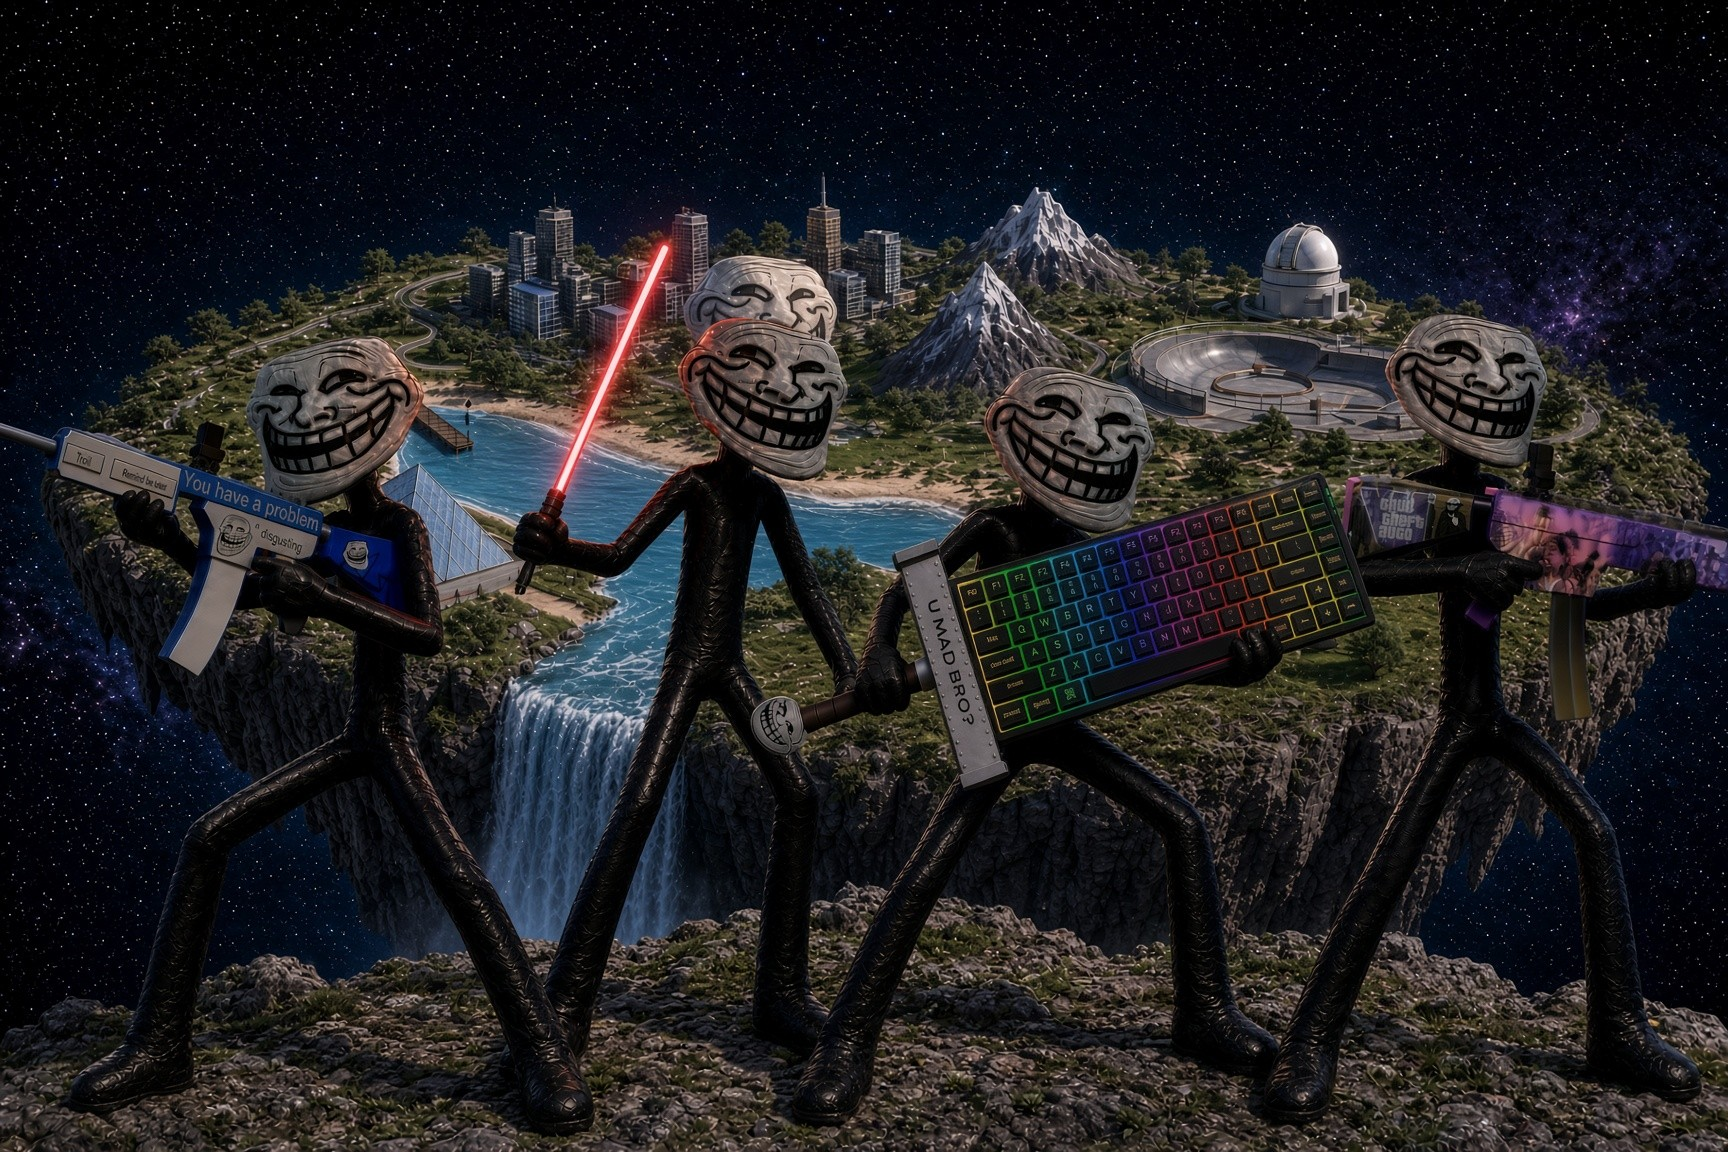
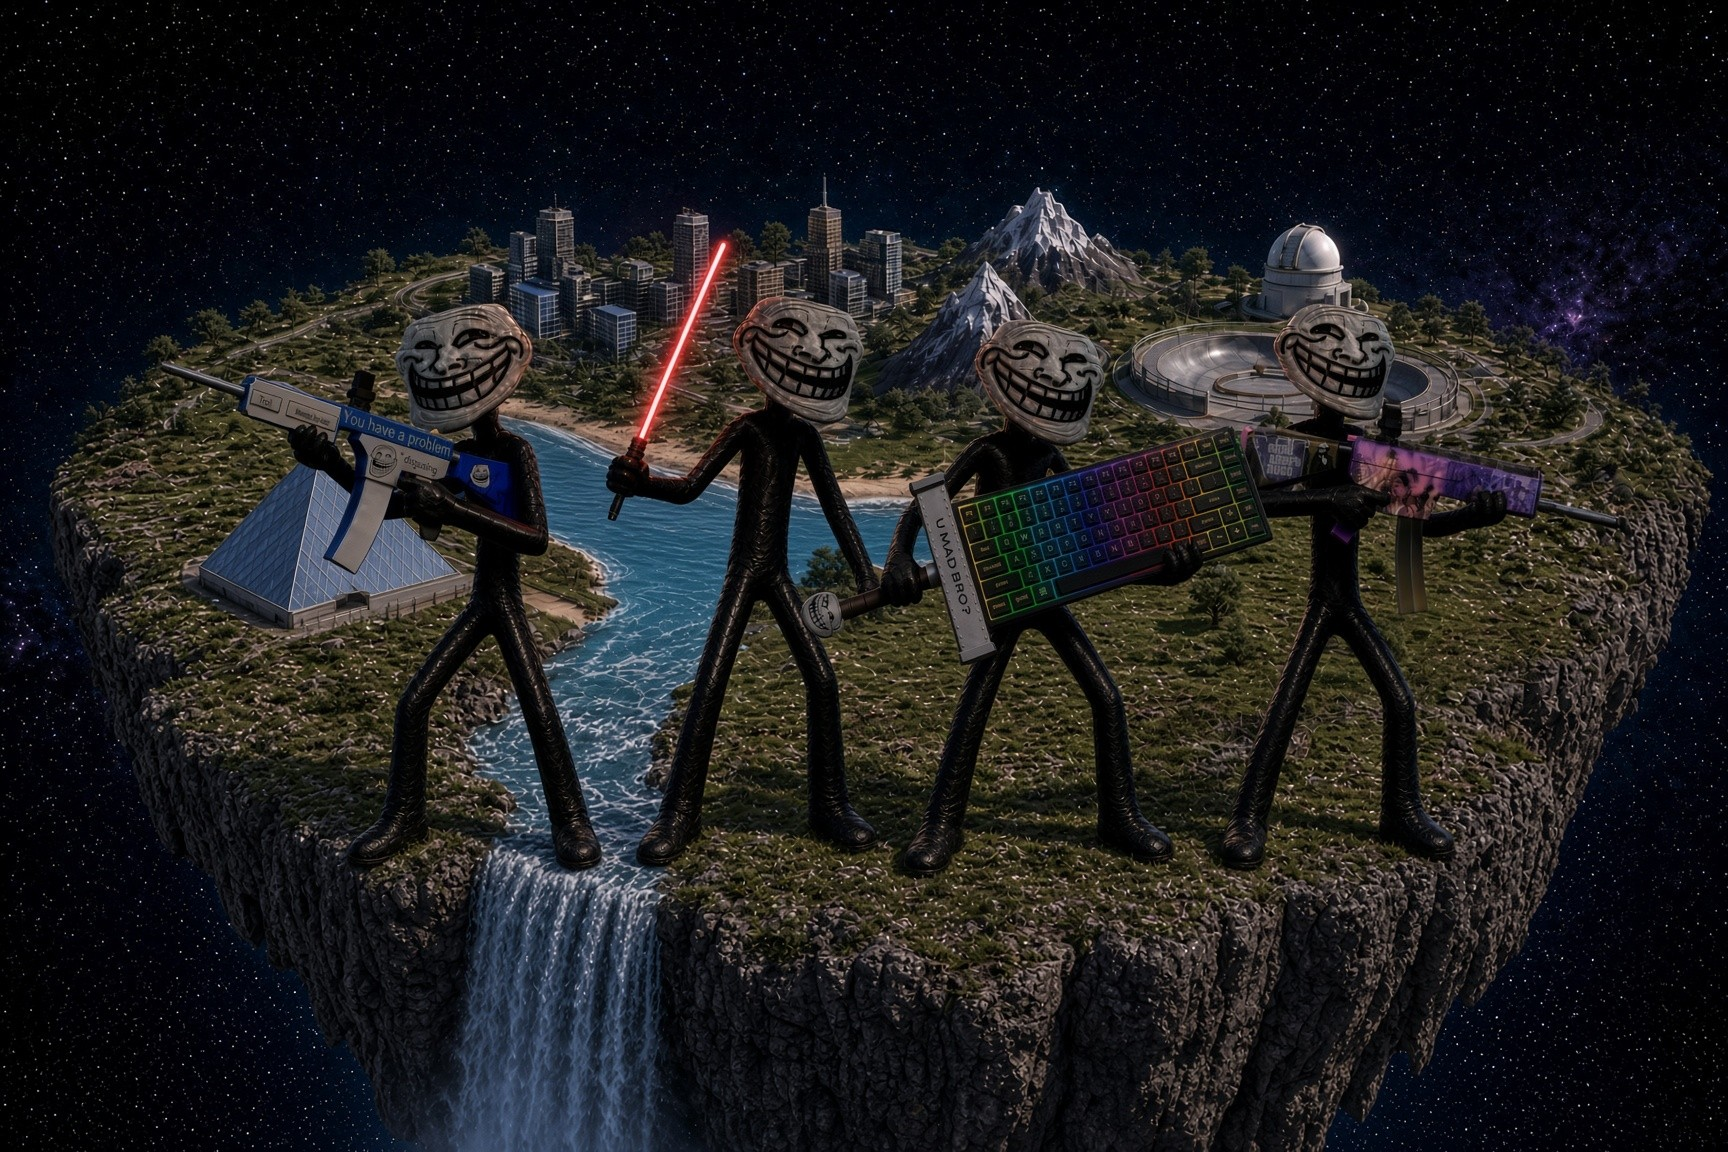
Games hub: new Troll Forces key art (trolls on the island)

diff --git a/games.html b/games.html
@@ -78,7 +78,7 @@
         <article class="hub-card" data-accent="green" data-category="shooter" data-title="troll forces troll ops troll royale battle royale shooter fps" data-preview='{"summary":"Online troll FPS — team deathmatch, Search & Destroy, Infection, zombies and Troll Royale on a floating island. Skins, scorestreaks, the Trollsaber and the Keyboard Warrior.","controls":["WASD to move, mouse to aim","Left click to fire, R to reload","Shift to sprint, Space to jump","G lethal, F tactical, X swap or pick up"],"playersOnline":"live"}'>
           <div class="hub-card-art">
             <span class="hub-card-tag">Shooter</span>
-            <img src="assets/games/troll-ops/ui/troll-forces-key-art.jpg" alt="Troll Forces key art — four trolls with a skinned Problem 416, the Trollsaber, the Keyboard Warrior and a Vice Grin rifle on Trollface Island" loading="lazy">
+            <img src="assets/games/troll-ops/ui/troll-forces-key-art.jpg?v=2" alt="Troll Forces key art — four trolls with a skinned Problem 416, the Trollsaber, the Keyboard Warrior and a Vice Grin rifle on Trollface Island" loading="lazy">
           </div>
           <div class="hub-card-body">
             <h3>Troll Forces</h3>
